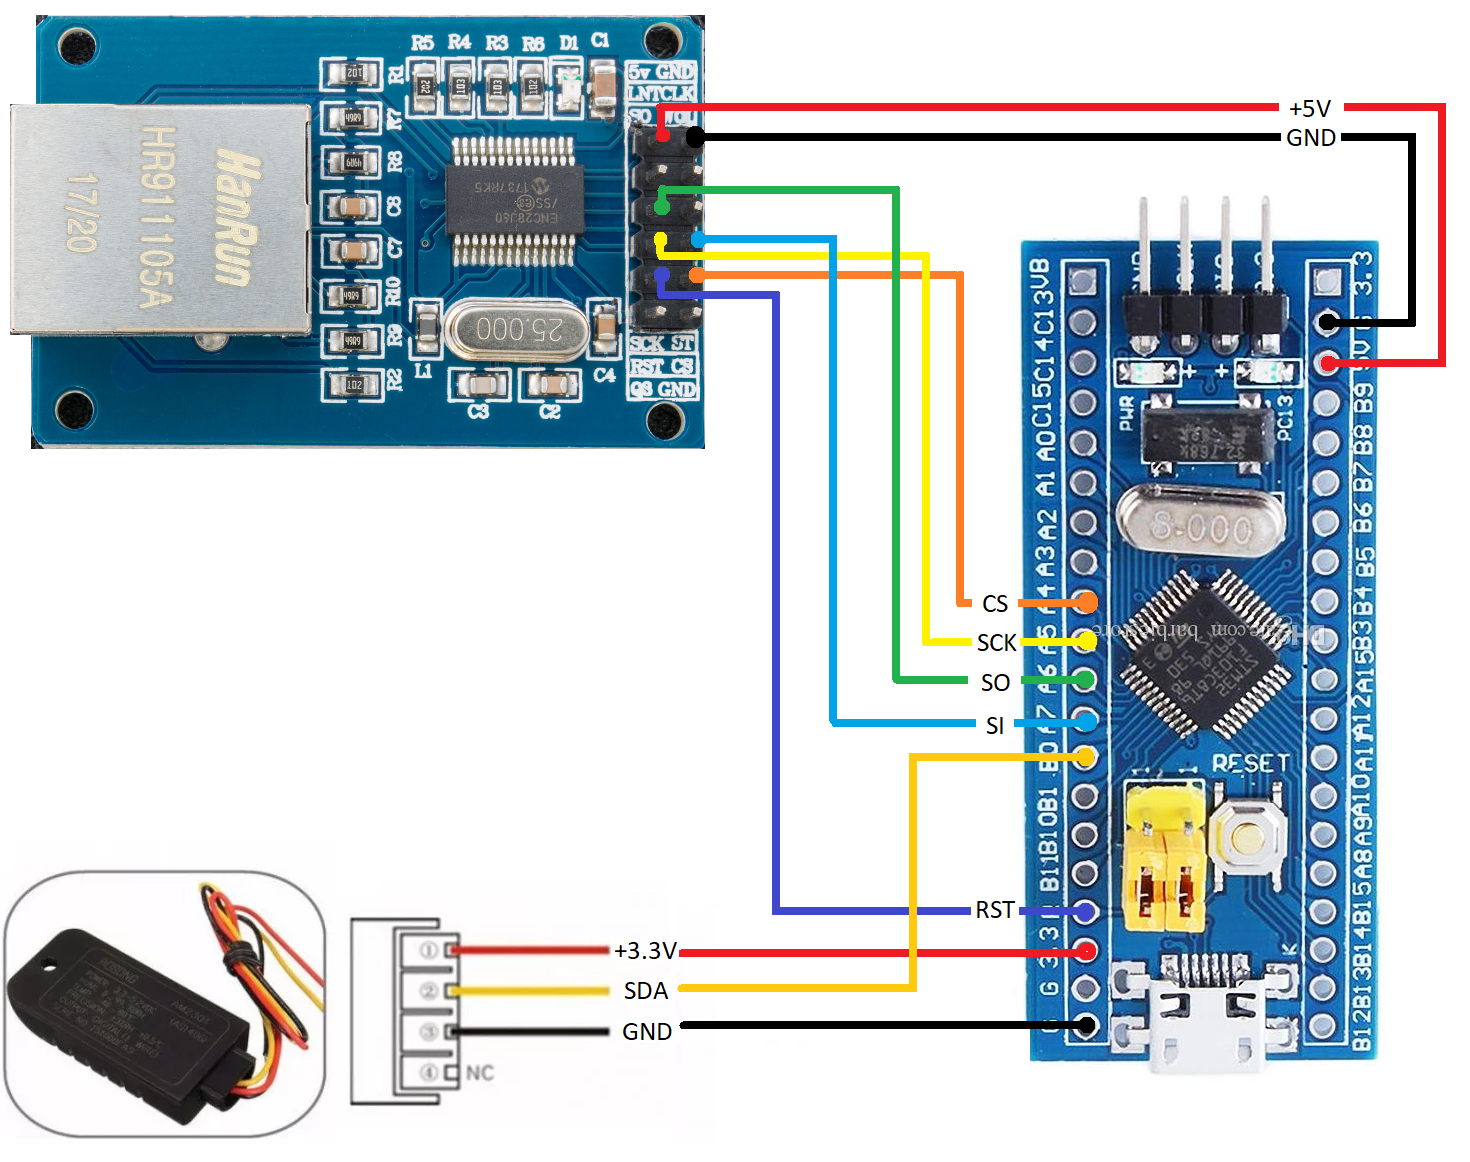
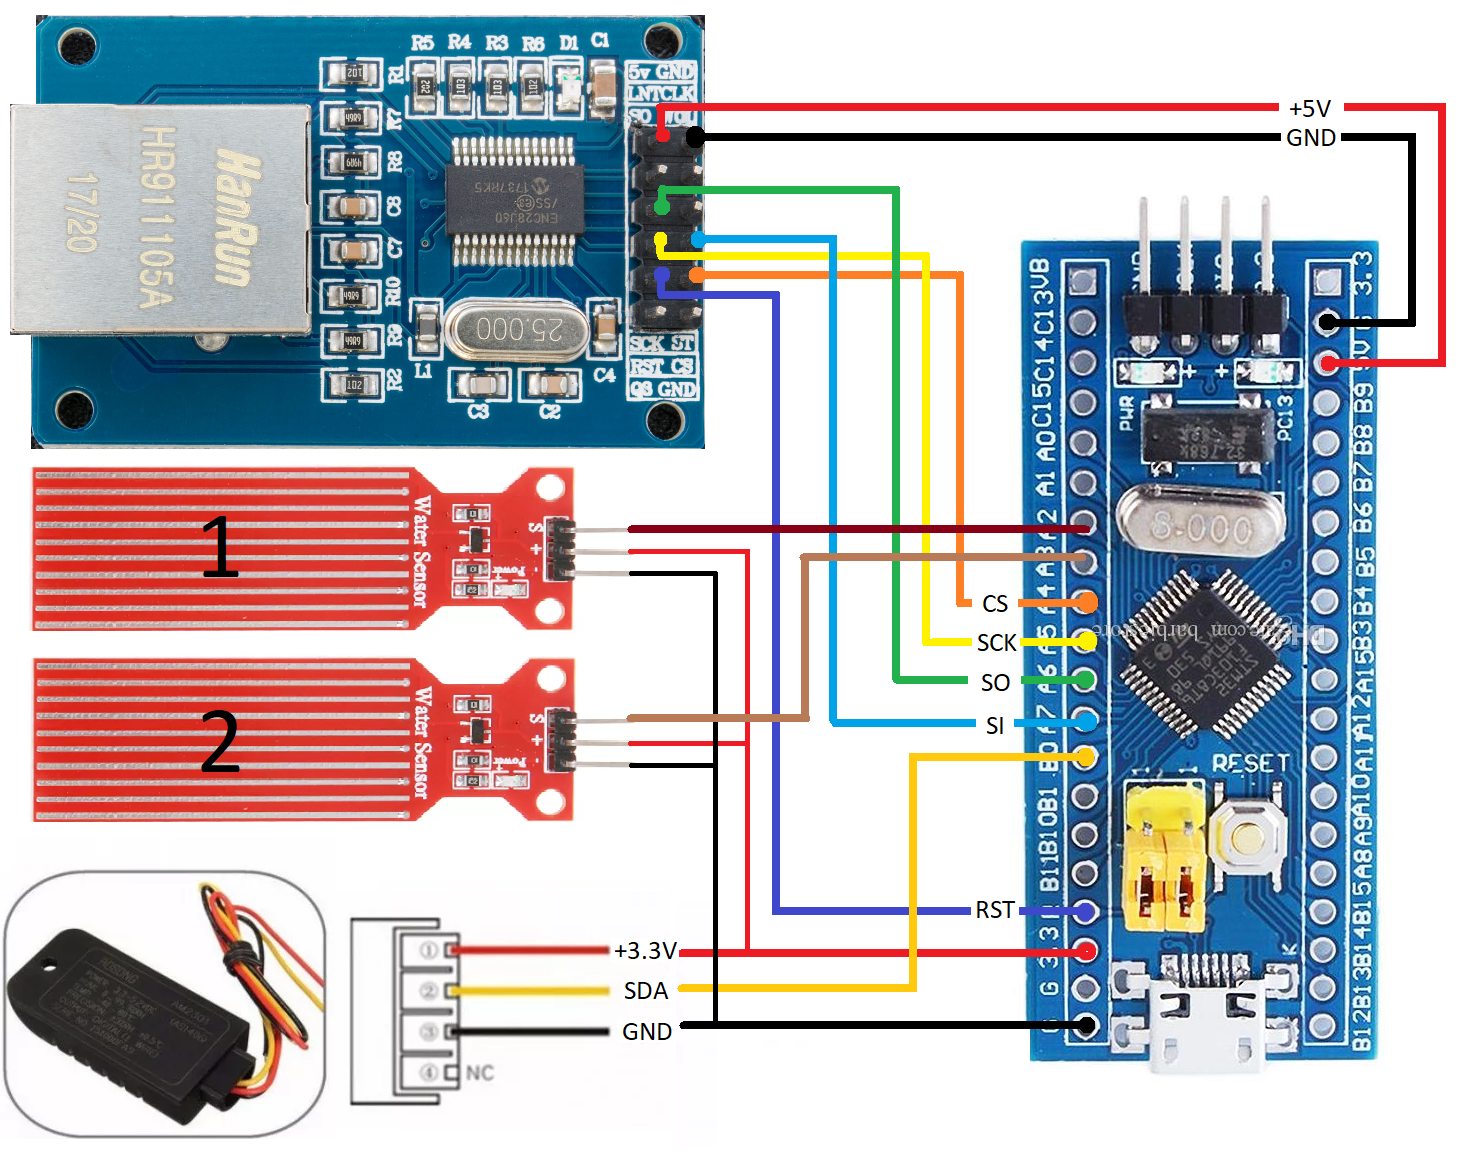
modified README

Changed region(s): [[0.0, 0.4028, 0.7347, 0.8675]]

diff --git a/include/config.h b/include/config.h
@@ -36,8 +36,8 @@ extern "C" {
 #define SNMP_LOC_LOCATION       "Russia"
 
 
-#define WEB_SERVER_PORT 80
-#define WEB_SERVER_TITLE "Серверная комната 7-этаж"
+// #define WEB_SERVER_PORT 80
+// #define WEB_SERVER_TITLE "Серверная комната 7-этаж"
 
 
 #define WDT_HARDWARE_TIMEOUT 2000

diff --git a/README.md b/README.md
@@ -1,6 +1,6 @@
 # SNMP-Sensor-DHT21
 
-Humidity and temperature sensor for server room.
+Humidity, temperature and water leak sensor for server room.
 
 Works on SNMP and HTTP protocols
 
@@ -88,19 +88,32 @@ Received 53 byte packet from UDP: [192.168.35.200]:161->[0.0.0.0]:41763
 iso.3.6.1.4.1.36582.3.0 = INTEGER: 1337
 ```
 
-### HTTP:
+##### Get water leak sensor:
 
-http://192.168.35.200
-
-### JSON:
-
-http://192.168.35.200/json/
+###### request:
+snmpget -d -v 1 -r 1 -c public 192.168.35.200 1.3.6.1.4.1.36582.4.0
 
 ###### response:
-```json
-{
-    "TemperatureC":16.20,
-    "Humidity":25.90,
-    "HeatIndexC":14.55
-}
+```
+Sending 45 bytes to UDP: [192.168.41.50]:161->[0.0.0.0]:0
+0000: 30 2B 02 01  00 04 06 70  75 62 6C 69  63 A0 1E 02    0+.....public...
+0016: 04 6F C7 66  C6 02 01 00  02 01 00 30  10 30 0E 06    .o.f.......0.0..
+0032: 0A 2B 06 01  04 01 82 9D  66 04 00 05  00             .+......f....
+
+
+Received 53 byte packet from UDP: [192.168.41.50]:161->[0.0.0.0]:41562
+0000: 30 33 02 01  00 04 06 70  75 62 6C 69  63 A2 26 02    03.....public.&.
+0016: 04 6F C7 66  C6 02 04 00  00 00 00 02  04 00 00 00    .o.f............
+0032: 00 30 12 30  10 06 0A 2B  06 01 04 01  82 9D 66 04    .0.0...+......f.
+0048: 00 02 02 00  00                                       .....
+```
+
+iso.3.6.1.4.1.36582.4.0 = INTEGER: 0
+
+###### return:
+```
+0   - OK
+100 - water leak sensor 1
+200 - water leak sensor 2
+300 - water leak sensor 1 and 2
 ```
